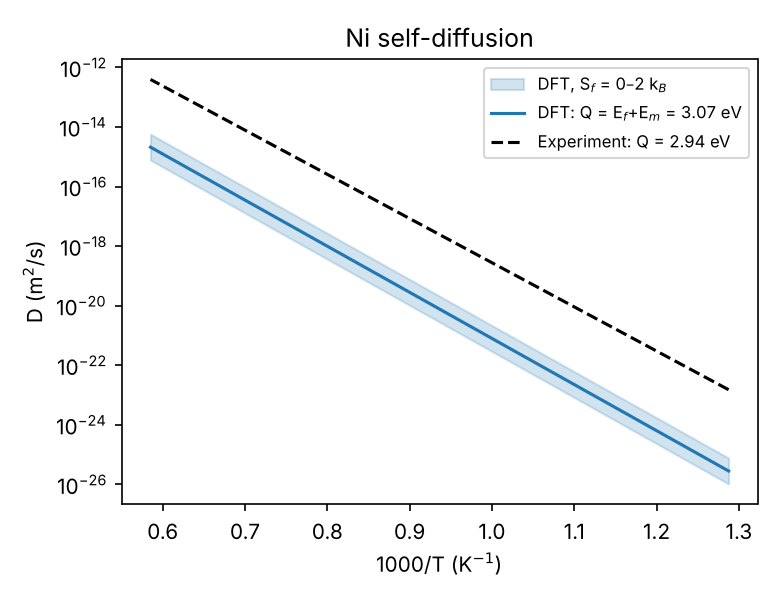
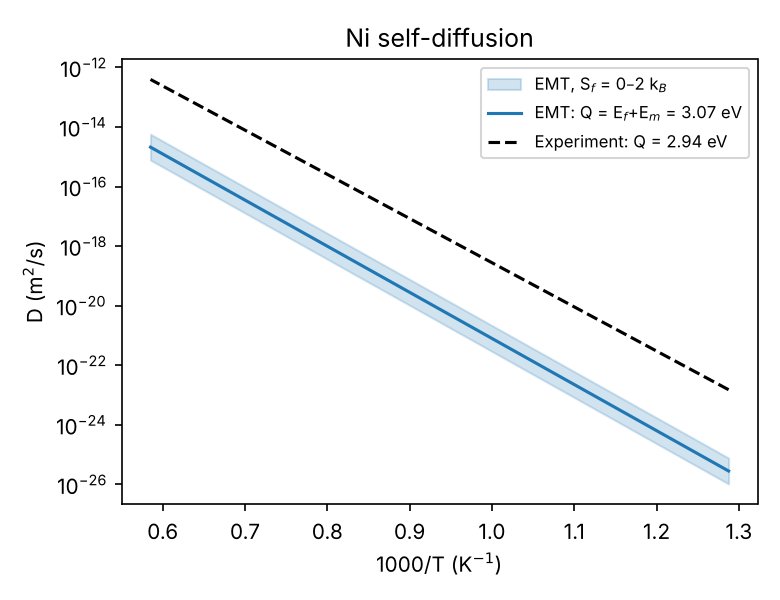
Phase-field sintering results; midpoint saddle method for vacancy migration (validated against NEB)
Claude-Session: https://claude.ai/code/session_01WST9Y3qZC3SpoNFmndLdFa

Changed region(s): [[0.6769, 0.18, 0.9538, 0.27], [0.6154, 0.12, 0.7385, 0.27], [0.8308, 0.12, 0.8615, 0.15]]

diff --git a/02-dft-vacancy-diffusion-creep/scripts/02_vacancy_migration_neb.py b/02-dft-vacancy-diffusion-creep/scripts/02_vacancy_migration_neb.py
@@ -1,27 +1,39 @@
-"""Step 2 - vacancy migration barrier E_m with the climbing-image NEB.
+"""Step 2 - vacancy migration barrier E_m.
 
-    python scripts/02_vacancy_migration_neb.py --element Al
-    python scripts/02_vacancy_migration_neb.py --element Al --calc emt
+    python scripts/02_vacancy_migration_neb.py --element Al                 # midpoint method (default)
+    python scripts/02_vacancy_migration_neb.py --element Al --method neb    # climbing-image NEB
+    python scripts/02_vacancy_migration_neb.py --element Ni --calc emt --method neb
 
-Needs vacancy_relaxed.extxyz and perfect.extxyz from step 1.
-Output: neb.json, neb.png, neb_path.extxyz (open in ASE-gui / OVITO to watch the jump)
+Methods
+  midpoint  the jumping atom is fixed half-way along the (symmetric) fcc jump and all other
+            atoms are relaxed: E_m = E(saddle) - E(relaxed vacancy). One relaxation, exact
+            for symmetric paths in pure metals.
+  neb       climbing-image nudged elastic band between relaxed end states (general, but
+            each optimiser step costs one DFT calculation per image).
+Running both with --calc emt is a quick check that they agree.
+
+Needs vacancy_relaxed.extxyz, perfect.extxyz and vacancy.json from step 1.
+Output: neb.json, neb.png
 """
+
+import json
 
 import matplotlib
 
 matplotlib.use("Agg")
 import matplotlib.pyplot as plt  # noqa: E402
 import numpy as np  # noqa: E402
-from ase.io import read, write  # noqa: E402
+from ase.io import read  # noqa: E402
 
 from common import out_dir, parser, save_json, settings  # noqa: E402
 from vacdiff.defects import nearest_neighbour, relax_positions  # noqa: E402
-from vacdiff.neb import final_state, run_neb  # noqa: E402
+from vacdiff.neb import final_state, midpoint_state, run_neb  # noqa: E402
 
 
 def main():
     p = parser(__doc__)
-    p.add_argument("--images", type=int, default=3, help="intermediate images (odd -> one sits at the saddle)")
+    p.add_argument("--method", default="midpoint", choices=["midpoint", "neb"])
+    p.add_argument("--images", type=int, default=3, help="NEB: intermediate images (odd -> one at the saddle)")
     p.add_argument("--fmax", type=float, default=0.05)
     args = p.parse_args()
     s = settings(args)
@@ -29,22 +41,37 @@ def main():
     perfect = read(out / "perfect.extxyz")
     initial = read(out / "vacancy_relaxed.extxyz")
     j = nearest_neighbour(perfect, 0)
-    final, E_fin = relax_positions(final_state(perfect, j), s, "neb_final_relaxed")
-    print(f"jumping atom {j}: distance {perfect.get_distance(0, j, mic=True):.3f} A")
+    print(f"jumping atom {j}: jump distance {perfect.get_distance(0, j, mic=True):.3f} A, method {args.method}")
 
-    res = run_neb(initial, final, s, n_images=args.images, fmax=args.fmax)
-    save_json(out / "neb.json", {"element": args.element, "jumper_index": j, **res.to_dict()})
+    if args.method == "midpoint":
+        E_init = json.loads((out / "vacancy.json").read_text())["E_vac_relaxed_eV"]
+        saddle, E_sad = relax_positions(midpoint_state(perfect, j), s, "saddle_midpoint_relaxed")
+        Em = E_sad - E_init
+        energies = [0.0, Em, 0.0]  # end states are equivalent by symmetry
+        res = {"method": "constrained midpoint relaxation", "energies_eV": energies, "Em_eV": Em,
+               "saddle_index": 1, "converged": True, "E_initial_eV": E_init, "E_saddle_eV": E_sad}
+    else:
+        final, _ = relax_positions(final_state(perfect, j), s, "neb_final_relaxed")
+        r = run_neb(initial, final, s, n_images=args.images, fmax=args.fmax)
+        res = {"method": "climbing-image NEB", **r.to_dict()}
+        energies, Em = r.energies_eV, r.Em_eV
+    save_json(out / "neb.json", {"element": args.element, "jumper_index": j, **res})
 
-    # energy profile along the reaction coordinate
-    x = np.linspace(0, 1, len(res.energies_eV))
     fig, ax = plt.subplots(figsize=(4.8, 3.6))
-    ax.plot(x, res.energies_eV, "o-")
-    ax.axhline(res.Em_eV, ls=":", color="0.5")
+    x = np.linspace(0, 1, len(energies))
+    if args.method == "midpoint":
+        xs = np.linspace(0, 1, 100)
+        ax.plot(xs, Em * np.sin(np.pi * xs) ** 2, "--", color="0.6", lw=1, label="schematic path")
+        ax.plot(x, energies, "o", ms=8, label="DFT: end states and saddle" if args.calc == "qe" else args.calc.upper())
+    else:
+        ax.plot(x, energies, "o-", label="NEB images")
+    ax.axhline(Em, ls=":", color="0.5")
     ax.set(xlabel="reaction coordinate", ylabel="E − E$_{initial}$ (eV)",
-           title=f"{args.element} vacancy migration: E$_m$ = {res.Em_eV:.2f} eV")
+           title=f"{args.element} vacancy migration: E$_m$ = {Em:.2f} eV")
+    ax.legend(fontsize=8)
     fig.tight_layout()
     fig.savefig(out / "neb.png", dpi=150)
-    print(f"E_m = {res.Em_eV:.3f} eV (converged: {res.converged})")
+    print(f"E_m = {Em:.3f} eV")
 
 
 if __name__ == "__main__":

diff --git a/08-phase-field-sintering/scripts/multi_particle_sintering.py b/08-phase-field-sintering/scripts/multi_particle_sintering.py
@@ -41,6 +41,21 @@ def render(ax, sim, title):
     ax.set_yticks([])
 
 
+def plot_stats(df, out):
+    """Surface-energy reduction and grain count (from results/multi_particle.csv)."""
+    fig, ax = plt.subplots(1, 2, figsize=(9.5, 3.6))
+    ax[0].semilogx(df["t"], df["surface_length"] / df["surface_length"].iloc[0])
+    ax[0].set(xlabel="t (reduced units)", ylabel="surface length / initial", title="Free-surface (energy) reduction")
+    ax[1].semilogx(df["t"], df["n_grains"], "o-", ms=3)
+    ax[1].set(xlabel="t (reduced units)", ylabel="number of grains", title="Grains surviving",
+              ylim=(0, df["n_grains"].max() + 2))
+    for a in ax:
+        a.grid(alpha=0.3, which="both")
+    fig.tight_layout()
+    fig.savefig(out / "fig_multi_particle_stats.png", dpi=150)
+    plt.close(fig)
+
+
 def main():
     ap = argparse.ArgumentParser(description=__doc__, formatter_class=argparse.RawDescriptionHelpFormatter)
     ap.add_argument("--quick", action="store_true")
@@ -87,18 +102,7 @@ def main():
     fig.savefig(out / "fig_multi_particle_snapshots.png", dpi=150)
     plt.close(fig)
 
-    fig, ax = plt.subplots(1, 3, figsize=(13, 3.6))
-    ax[0].semilogx(df["t"], df["surface_length"] / df["surface_length"].iloc[0])
-    ax[0].set(xlabel="t", ylabel="surface length / initial", title="Surface-energy reduction")
-    ax[1].semilogx(df["t"], df["n_grains"], "o-", ms=3)
-    ax[1].set(xlabel="t", ylabel="number of grains", title="Grain growth / coalescence")
-    ax[2].loglog(df["t"], df["mean_grain_area"], "o-", ms=3)
-    ax[2].set(xlabel="t", ylabel="mean grain area (px²)", title="Mean grain size")
-    for a in ax:
-        a.grid(alpha=0.3, which="both")
-    fig.tight_layout()
-    fig.savefig(out / "fig_multi_particle_stats.png", dpi=150)
-    plt.close(fig)
+    plot_stats(df, out)
 
     try:
         from PIL import Image

diff --git a/02-dft-vacancy-diffusion-creep/vacdiff/neb.py b/02-dft-vacancy-diffusion-creep/vacdiff/neb.py
@@ -49,6 +49,25 @@ def final_state(perfect: Atoms, jumper: int) -> Atoms:
     return final
 
 
+def midpoint_state(perfect: Atoms, jumper: int) -> Atoms:
+    """Jumping atom placed half-way between its site and the vacant site 0, and FIXED there.
+
+    For a nearest-neighbour vacancy jump in a pure fcc (or bcc) metal the path is symmetric,
+    so the saddle point lies exactly at the midpoint and the force on the jumper vanishes
+    there by symmetry. Relaxing all other atoms with the jumper fixed gives the saddle energy
+    from ONE relaxation - far cheaper than an NEB. Not valid for asymmetric paths
+    (B2 compounds, solute-vacancy pairs, concentrated alloys): use run_neb there.
+    """
+    from ase.constraints import FixAtoms
+
+    at = perfect.copy()
+    d = perfect.get_distance(jumper, 0, mic=True, vector=True)
+    at.positions[jumper] = perfect.positions[jumper] + 0.5 * d
+    del at[0]
+    at.set_constraint(FixAtoms(indices=[jumper - 1]))
+    return at
+
+
 def run_neb(initial: Atoms, final: Atoms, s: Settings, n_images: int = 3, fmax: float = 0.05,
             steps: int = 200, tag: str = "neb") -> NEBResult:
     """Relaxed end points in, CI-NEB out. `n_images` = number of INTERMEDIATE images."""

diff --git a/02-dft-vacancy-diffusion-creep/tests/test_vacdiff.py b/02-dft-vacancy-diffusion-creep/tests/test_vacdiff.py
@@ -46,3 +46,18 @@ def test_coble_beats_nabarro_herring_below_crossover():
     d_star = (cr.A_COBLE / cr.A_NH) * dDb / DL
     for d, coble_wins in [(0.1 * d_star, True), (10 * d_star, False)]:
         assert (cr.coble(10, T, d, dDb, Om) > cr.nabarro_herring(10, T, d, DL, Om)) == coble_wins
+
+
+def test_midpoint_method_equals_neb_for_symmetric_jump():
+    from vacdiff.defects import relax_positions, remove_atom
+    from vacdiff.neb import midpoint_state
+
+    s = Settings(calc="emt", fmax=0.01, workdir="/tmp")
+    perfect = fcc_supercell("Ni", 3.4868, 2)
+    _, e_init = relax_positions(remove_atom(perfect, 0), s, "i")
+    j = nearest_neighbour(perfect, 0)
+    _, e_sad = relax_positions(midpoint_state(perfect, j), s, "m")
+    init, _ = relax_positions(remove_atom(perfect, 0), s, "i")
+    fin, _ = relax_positions(final_state(perfect, j), s, "f")
+    neb = run_neb(init, fin, s, n_images=3, fmax=0.02)
+    assert e_sad - e_init == pytest.approx(neb.Em_eV, abs=0.01)

diff --git a/08-phase-field-sintering/README.md b/08-phase-field-sintering/README.md
@@ -36,7 +36,42 @@ python scripts/two_particle_neck_growth.py --quick   # 20-second test
 
 ## Results
 
-NECK_RESULTS_PLACEHOLDER
+**Two particles (R = 40 grid units), surface- vs grain-boundary-diffusion dominated:**
+
+| | surface (M_surf/M_gb = 100) | grain boundary (M_gb/M_surf = 10) |
+|---|---|---|
+| neck radius x/R at t = 3000 | 0.66 | 0.55 |
+| apparent exponent m, (x/R)^m ∝ t, fitted for x/R = 0.25–0.6 | 12.2 | 17.2 |
+| local exponent m once x/R > 0.45 | ≈ 10 | ≈ 10 |
+
+![neck growth](results/fig_neck_growth.png)
+![two particles](results/fig_two_particle_snapshots.png)
+
+How to read this honestly:
+
+* The classical exponents (m ≈ 5 volume, 6 grain-boundary, 7 surface diffusion) are derived
+  for **x/R ≪ 1**. Because of the diffuse interface, the simulated neck starts at
+  x/R ≈ 0.33. The measured m therefore describes the *later* stage, where growth slows as
+  the neck approaches its equilibrium (dihedral-angle) shape. The local-exponent panel
+  shows this directly: m falls with x/R and levels off near 10. Reaching the classical
+  regime needs particles many times larger than the interface width (a much finer grid;
+  try `two_particles(..., combine="max")` with a larger R as an exercise).
+* Surface diffusion grows the neck faster and smooths the surface steadily. When
+  grain-boundary diffusion dominates, the free surface first *lengthens* (t < 5) as a
+  groove forms where the boundary meets the surface, then decreases.
+* Without rigid-body motion neither case densifies (centre distance is fixed). In real
+  sintering, grain-boundary diffusion is the densifying path; surface diffusion only
+  coarsens.
+
+**Random powder aggregate (16 particles, 256 × 256):** necks form at every contact,
+narrow channels pinch off into closed pores, pores round off and shrink, and the free
+surface falls to 62 % of its initial length by t = 2000. All 16 grains survive over this
+time (grain growth would need longer times or a size distribution with smaller particles).
+
+![multi-particle](results/fig_multi_particle_snapshots.png)
+![multi-particle statistics](results/fig_multi_particle_stats.png)
+
+The animation `results/multi_particle.gif` shows the full evolution.
 
 ## Connecting to experiments
 

diff --git a/02-dft-vacancy-diffusion-creep/README.md b/02-dft-vacancy-diffusion-creep/README.md
@@ -14,8 +14,14 @@ $$\dot\varepsilon_{NH}=14\frac{\Omega D_L\sigma}{kTd^2},\qquad \dot\varepsilon_{
 
 1. `scripts/01_vacancy_formation.py` — 2×2×2 fcc supercell (32 sites) at the **DFT** lattice
    parameter from project 01; unrelaxed and relaxed vacancy formation energy.
-2. `scripts/02_vacancy_migration_neb.py` — relaxed initial/final states, IDPP initial path,
-   climbing-image NEB (ASE) with Quantum ESPRESSO forces → E_m and the energy profile.
+2. `scripts/02_vacancy_migration_neb.py` — migration barrier E_m by two methods:
+   * `--method midpoint` (default): the jumping atom is fixed half-way along the jump and all
+     other atoms are relaxed. For the symmetric nearest-neighbour jump in a pure fcc metal
+     the saddle lies exactly there, so one relaxation gives E_m.
+   * `--method neb`: climbing-image NEB (ASE, IDPP initial path) between relaxed end
+     states — the general method, needed for asymmetric paths (B2 compounds, solute–vacancy
+     pairs, concentrated alloys) but one DFT calculation per image per optimiser step.
+   A unit test checks that both give the same barrier (1.164 eV for EMT Ni).
 3. `scripts/03_diffusion_and_creep.py` — D(T) with the attempt frequency ν = kθ_D/h (θ_D
    from the DFT elastic constants of project 01), comparison with tracer-diffusion
    experiments, Nabarro–Herring and Coble rates vs grain size and the crossover grain size.
